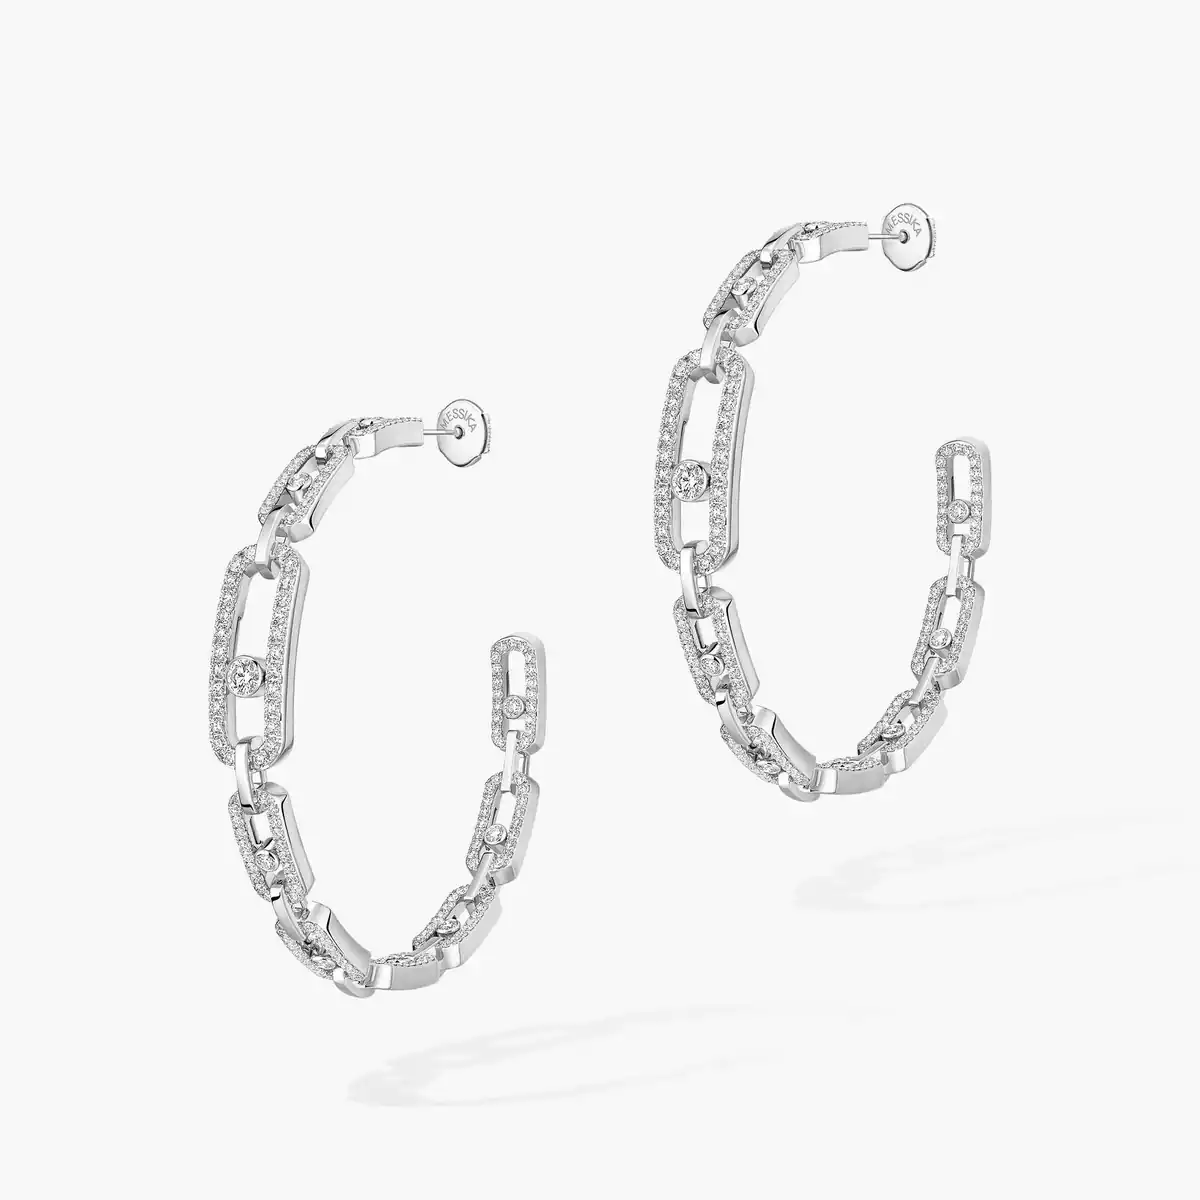
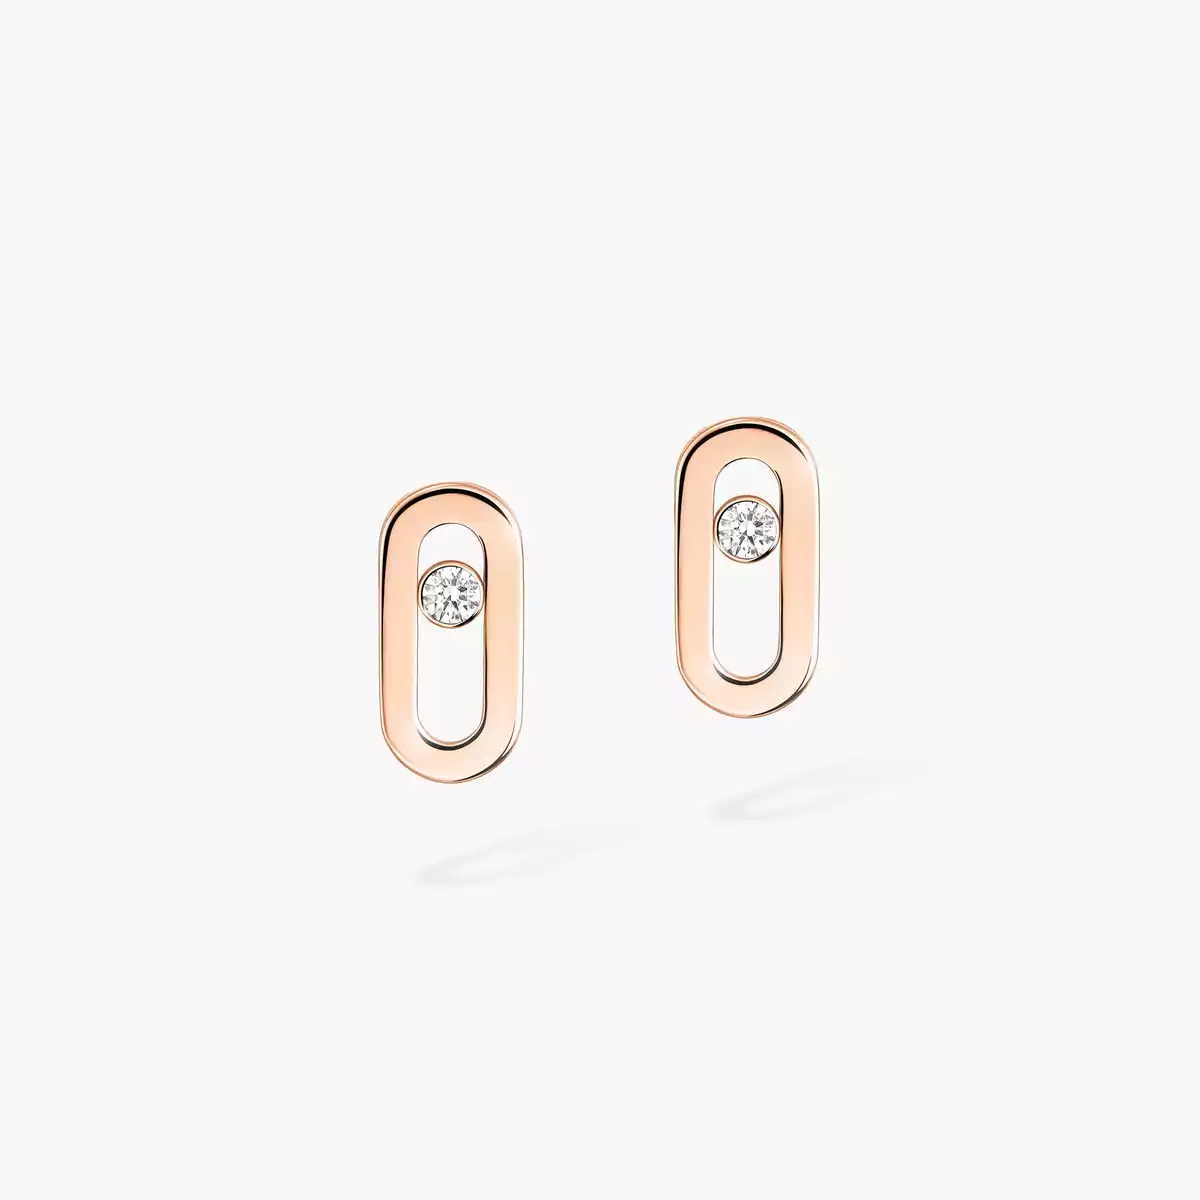
update giao dien san pham

Changed region(s): [[0.1542, 0.3392, 0.4625, 0.8325], [0.5242, 0.1542, 0.8325, 0.6783]]

diff --git a/src/css/components/products.css b/src/css/components/products.css
@@ -49,6 +49,23 @@
   color: #FFFFFF;
 }
 
+.product-card .product-overlay .wishlist-btn {
+  background-color: #FFFFFF;
+  color: #0A0A0A;
+  border-color: rgba(0, 0, 0, 0.08);
+}
+
+.product-card .product-overlay .wishlist-btn:hover {
+  background-color: #F9F7F2;
+  color: #C9A96E;
+  transform: translateY(-1px);
+}
+
+.product-card .product-overlay .wishlist-btn.active svg {
+  fill: #C9A96E;
+  stroke: #C9A96E;
+}
+
 .product-card:hover .product-img-secondary {
   opacity: 1;
 }

diff --git a/src/js/pages/collections.js b/src/js/pages/collections.js
@@ -35,7 +35,6 @@ $(function () {
         '<img src="' + p.images[0] + '" alt="' + p.name_vi + '" class="w-full aspect-[3/4] object-cover transition-transform duration-700 group-hover:scale-105">' +
         '<div class="absolute bottom-0 inset-x-0 p-3 flex justify-center gap-2 translate-y-full group-hover:translate-y-0 transition-transform duration-400">' +
           '<button class="add-to-cart-btn bg-primary text-white font-ui text-[9px] uppercase tracking-wider px-4 py-2 hover:bg-gold transition-colors cursor-pointer" data-id="' + p.id + '">Thêm Giỏ</button>' +
-          '<button class="buy-now-btn btn-secondary text-primary font-ui text-[9px] uppercase tracking-wider px-4 py-2 hover:bg-gold hover:text-white transition-colors cursor-pointer" data-id="' + p.id + '">Mua Ngay</button>' +
           '<button class="toggle-wishlist-btn bg-white text-primary font-ui text-[9px] uppercase tracking-wider px-3 py-2 hover:text-gold transition-colors cursor-pointer" data-id="' + p.id + '">' +
             '<svg width="14" height="14" viewBox="0 0 24 24" fill="none" stroke="currentColor" stroke-width="1.5"><path d="M20.84 4.61a5.5 5.5 0 0 0-7.78 0L12 5.67l-1.06-1.06a5.5 5.5 0 0 0-7.78 7.78l1.06 1.06L12 21.23l7.78-7.78 1.06-1.06a5.5 5.5 0 0 0 0-7.78z"/></svg>' +
           '</button>' +
@@ -190,7 +189,7 @@ $(function () {
   });
 
   // Product card actions
-  $(document).on("click", ".add-to-cart-btn, .buy-now-btn", function (e) {
+  $(document).on("click", ".add-to-cart-btn", function (e) {
     e.preventDefault();
     e.stopPropagation();
 
@@ -199,10 +198,6 @@ $(function () {
     if (!product || typeof window.VaneCart === "undefined") return;
 
     window.VaneCart.addToCart(product, null, 1);
-
-    if ($(this).hasClass("buy-now-btn")) {
-      window.location.href = "checkout.html";
-    }
   });
 
   // Mobile filter drawer